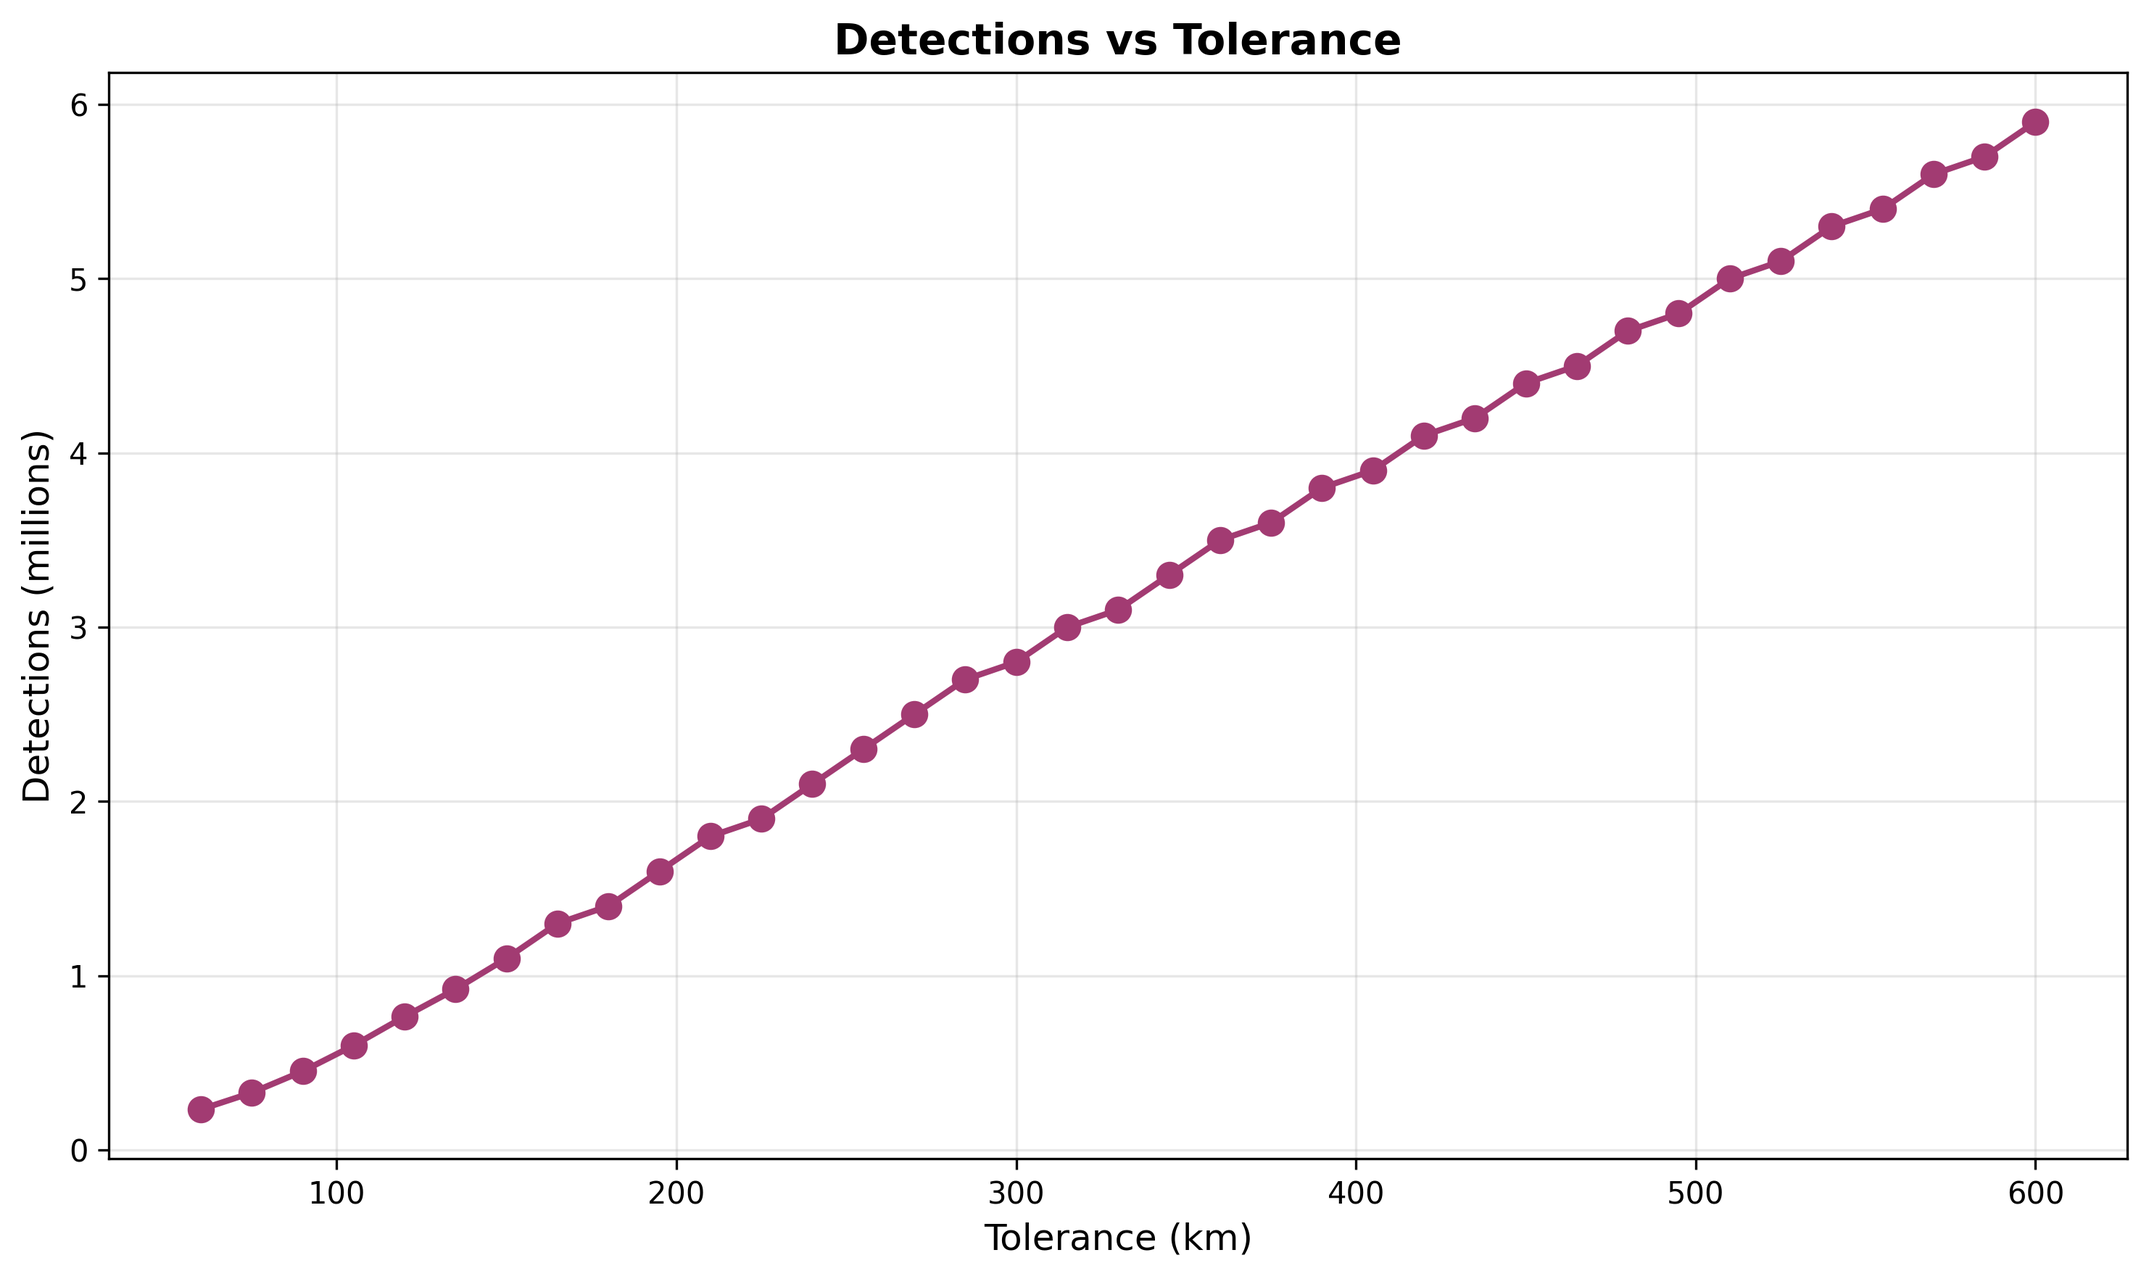
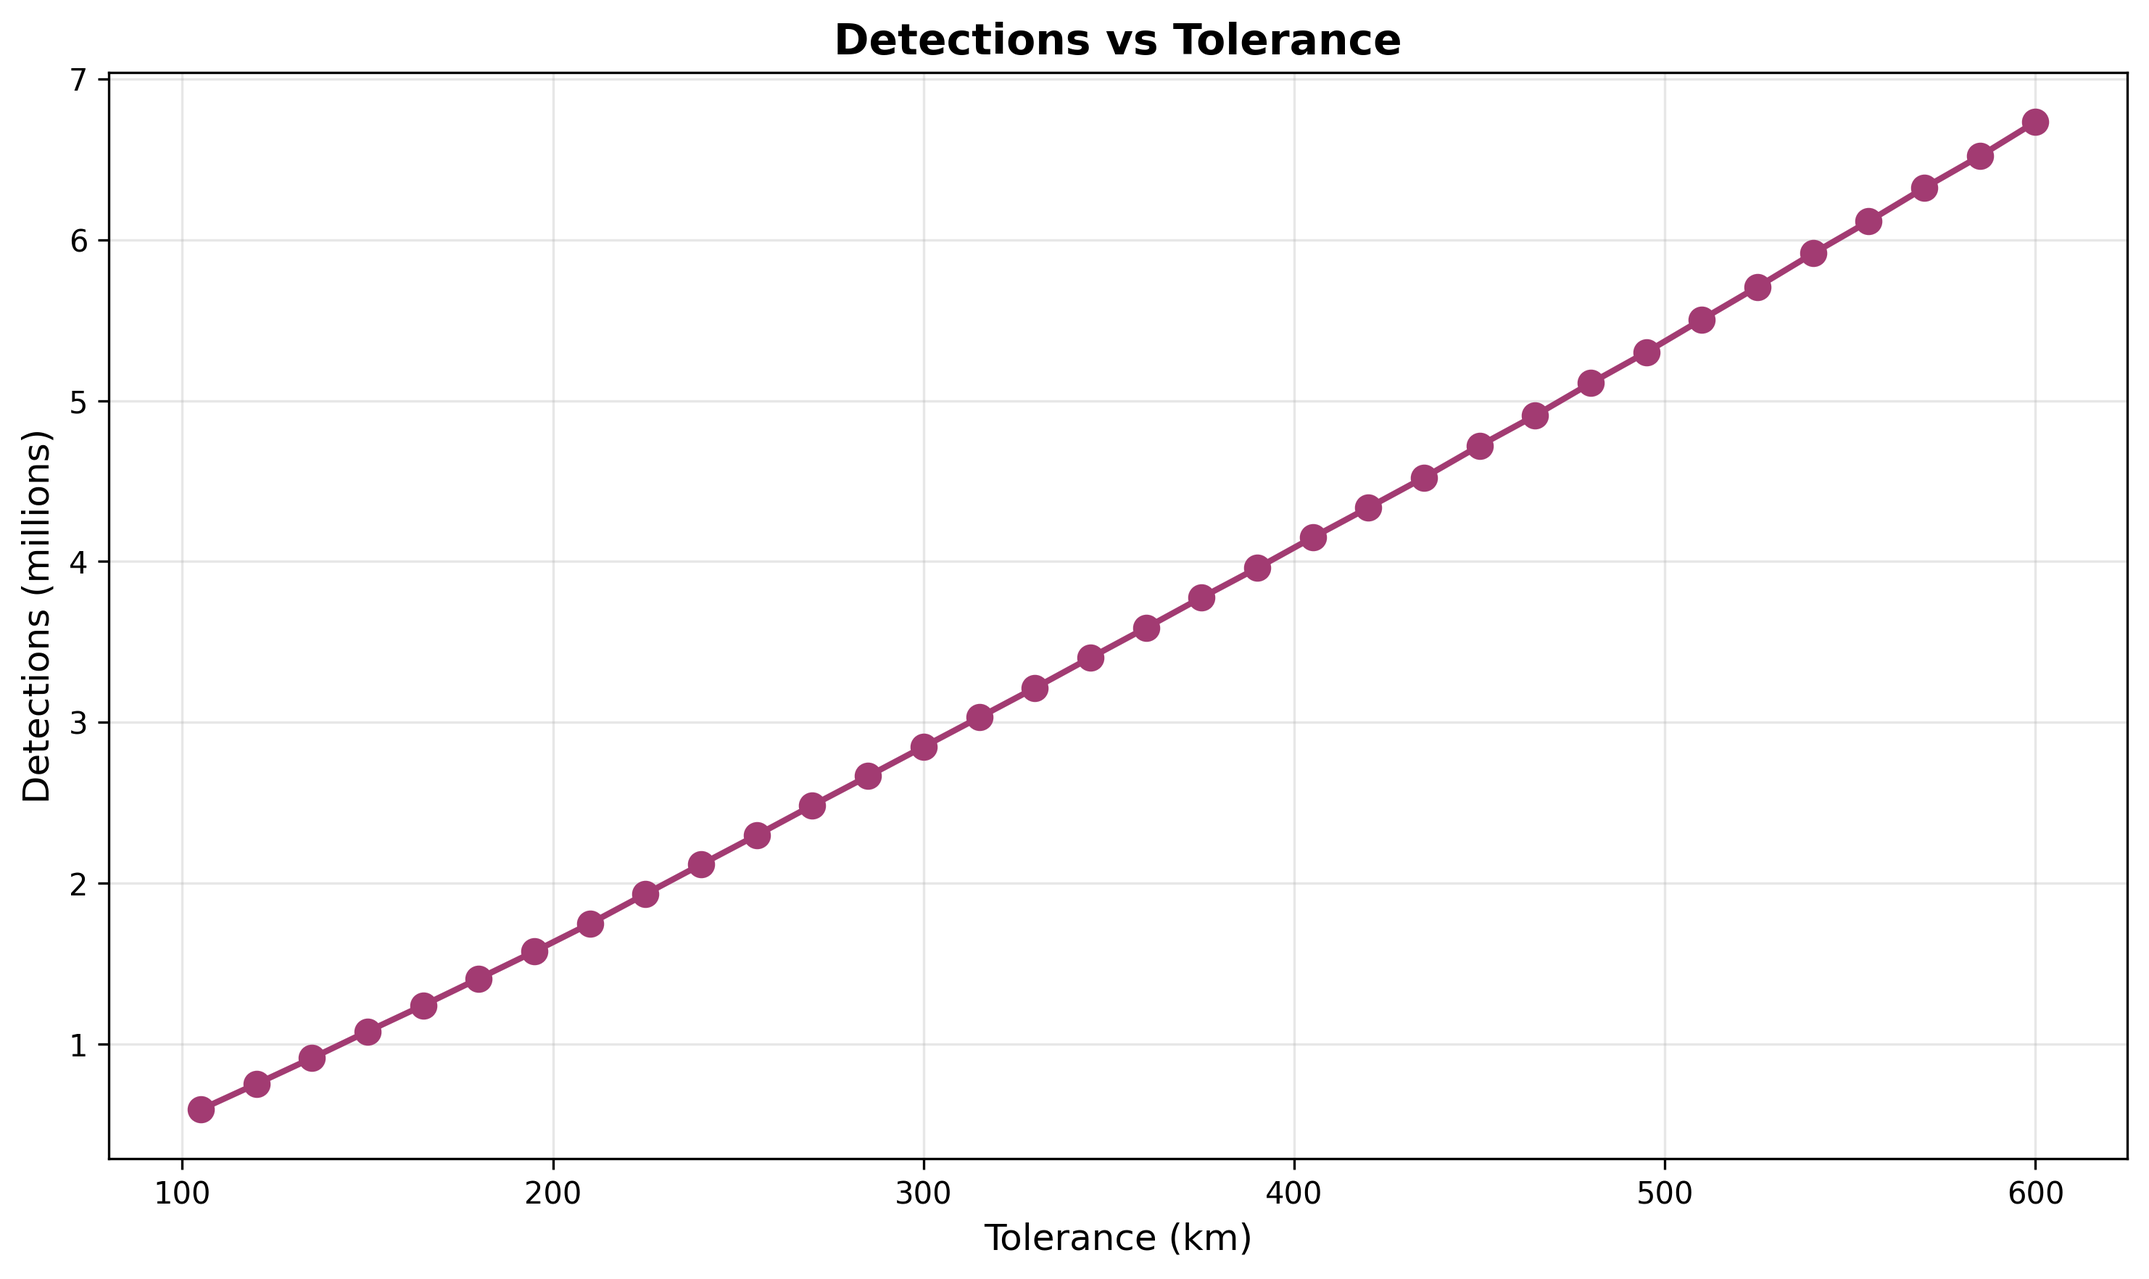
Replace binary search in refinement stage with golden section search; update docs

diff --git a/src/main/java/io/salad109/conjunctionapi/conjunction/internal/ConjunctionBenchmark.java b/src/main/java/io/salad109/conjunctionapi/conjunction/internal/ConjunctionBenchmark.java
@@ -48,15 +48,16 @@ public class ConjunctionBenchmark implements CommandLineRunner {
     }
 
     @Override
-    public void run(String @NonNull ... args) {
+    public void run(String @NonNull ... args) throws InterruptedException {
         log.info("Starting conjunction detection benchmark");
         log.info("");
 
         List<Satellite> satellites = satelliteService.getAll();
         log.info("Loaded {} satellites", satellites.size());
 
-        // Use fixed start time midnight UTC today
-        OffsetDateTime fixedStartTime = OffsetDateTime.now(ZoneOffset.UTC).truncatedTo(ChronoUnit.DAYS);
+        // Use fixed start time
+        OffsetDateTime fixedStartTime = OffsetDateTime.of(2025, 12, 31, 0, 0, 0, 0, ZoneOffset.UTC)
+                .truncatedTo(ChronoUnit.DAYS);
         log.info("Using fixed start time: {}", fixedStartTime);
 
         Map<Integer, TLEPropagator> propagators = propagationService.buildPropagators(satellites);
@@ -68,16 +69,18 @@ public class ConjunctionBenchmark implements CommandLineRunner {
 
         List<BenchmarkResult> results = new ArrayList<>();
 
-        // Run benchmarks with varying tolerance (60-600km, step 15) and step seconds (4-40s, step 1)
-        double toleranceKm = 60;
-        int stepSeconds = 4;
+        // Run benchmarks with various parameters
+        double toleranceKm = 105;
         while (toleranceKm <= 600) {
+            int stepSeconds = (int) (toleranceKm / 15.0);
+
+            System.gc();
+            Thread.sleep(100);
             results.add(runBenchmark(satellites, propagators, fixedStartTime, toleranceKm, stepSeconds, lookaheadHours, thresholdKm));
+
             toleranceKm += 15;
-            stepSeconds += 1;
         }
 
-        printResultsTable(results);
         writeCsvResults(results);
     }
 
@@ -92,14 +95,14 @@ public class ConjunctionBenchmark implements CommandLineRunner {
     ) {
         String name = String.format("tol=%.0f, step=%d", toleranceKm, stepSeconds);
         log.info("Running: {}", name);
-        long benchmarkStart = System.currentTimeMillis();
+        long benchmarkStart = System.nanoTime();
 
         List<SatellitePair> pairs = pairReductionService.findPotentialCollisionPairs(satellites, toleranceKm);
-        log.info(" -> {} candidate pairs", pairs.size());
+        log.info("{} candidate pairs", pairs.size());
 
-        long coarseStart = System.currentTimeMillis();
+        long coarseStart = System.nanoTime();
         List<ScanService.CoarseDetection> detections = scanService.coarseSweep(pairs, propagators, startTime, toleranceKm, stepSeconds, lookaheadHours);
-        long coarseTime = System.currentTimeMillis() - coarseStart;
+        long coarseTime = System.nanoTime() - coarseStart;
 
         Map<SatellitePair, List<List<ScanService.CoarseDetection>>> eventsByPair = scanService.groupIntoEvents(detections, stepSeconds);
         int totalEvents = eventsByPair.values().stream().mapToInt(List::size).sum();
@@ -108,11 +111,12 @@ public class ConjunctionBenchmark implements CommandLineRunner {
                 .flatMap(List::stream)
                 .toList();
 
-        long refineStart = System.currentTimeMillis();
+        long refineStart = System.nanoTime();
         List<Conjunction> refined = allEvents.parallelStream().map(event -> scanService.refineEvent(event, propagators, stepSeconds))
                 .filter(c -> c.getMissDistanceKm() <= thresholdKm)
                 .toList();
-        long refineTime = System.currentTimeMillis() - refineStart;
+        long refineTime = System.nanoTime() - refineStart;
+        log.info("Fine sweep completed in {}ms", refineTime / 1_000_000);
 
         List<Conjunction> deduplicated = refined.stream()
                 .collect(Collectors.toMap(
@@ -124,40 +128,13 @@ public class ConjunctionBenchmark implements CommandLineRunner {
                 .stream()
                 .toList();
 
-        long totalTime = System.currentTimeMillis() - benchmarkStart;
+        long totalTime = System.nanoTime() - benchmarkStart;
 
         log.info(" -> {} detections, {} events, {} conjunctions, {} dedup in {}ms",
-                detections.size(), totalEvents, refined.size(), deduplicated.size(), totalTime);
+                detections.size(), totalEvents, refined.size(), deduplicated.size(), totalTime / 1_000_000);
 
         return new BenchmarkResult(name, toleranceKm, stepSeconds, detections.size(), totalEvents,
                 refined.size(), deduplicated.size(), coarseTime, refineTime, totalTime);
-    }
-
-
-    private void printResultsTable(List<BenchmarkResult> results) {
-        log.info("");
-        log.info("=".repeat(114));
-        log.info("CONJUNCTION BENCHMARK RESULTS");
-        log.info("=".repeat(114));
-        log.info(String.format("%-18s | %8s | %6s | %10s | %8s | %6s | %6s | %8s | %8s | %8s",
-                "config", "tol(km)", "step(s)", "detections", "events", "conj", "dedup", "coarse", "refine", "total"));
-        log.info("-".repeat(114));
-
-        for (BenchmarkResult r : results) {
-            log.info(String.format("%-18s | %8.0f | %7d | %10s | %8s | %6d | %6d | %7.1fs | %7.1fs | %7.1fs",
-                    r.name, r.toleranceKm, r.stepSeconds,
-                    formatCount(r.detections), formatCount(r.events),
-                    r.conjunctions, r.deduplicated,
-                    r.coarseTimeMs / 1000.0, r.refineTimeMs / 1000.0, r.totalTimeMs / 1000.0));
-        }
-
-        log.info("=".repeat(114));
-    }
-
-    private String formatCount(long count) {
-        if (count >= 1_000_000) return String.format("%.1fM", count / 1_000_000.0);
-        if (count >= 1_000) return String.format("%.0fK", count / 1_000.0);
-        return String.valueOf(count);
     }
 
     private void writeCsvResults(List<BenchmarkResult> results) {
@@ -170,16 +147,16 @@ public class ConjunctionBenchmark implements CommandLineRunner {
                 writer.write("tolerance_km,step_s,detections,events,conj,dedup,coarse_s,refine_s,total_s\n");
 
                 for (BenchmarkResult r : results) {
-                    writer.write(String.format("%.0f,%d,%d,%d,%d,%d,%.1f,%.1f,%.1f%n",
+                    writer.write(String.format("%.0f,%d,%d,%d,%d,%d,%.6f,%.6f,%.6f%n",
                             r.toleranceKm,
                             r.stepSeconds,
                             r.detections,
                             r.events,
                             r.conjunctions,
                             r.deduplicated,
-                            r.coarseTimeMs / 1000.0,
-                            r.refineTimeMs / 1000.0,
-                            r.totalTimeMs / 1000.0));
+                            r.coarseTimeMs / 1_000_000_000.0,
+                            r.refineTimeMs / 1_000_000_000.0,
+                            r.totalTimeMs / 1_000_000_000.0));
                 }
             }
 

diff --git a/src/main/java/io/salad109/conjunctionapi/conjunction/internal/ScanService.java b/src/main/java/io/salad109/conjunctionapi/conjunction/internal/ScanService.java
@@ -17,6 +17,7 @@ import java.util.stream.Collectors;
 public class ScanService {
 
     private static final Logger log = LoggerFactory.getLogger(ScanService.class);
+    private static final double PHI = (1 + Math.sqrt(5)) / 2;  // golden ratio
 
     private final PropagationService propagationService;
 
@@ -176,39 +177,47 @@ public class ScanService {
     }
 
     /**
-     * Refine an event (cluster of coarse detections) using binary search to find more accurate TCA and minimum distance.
+     * Refine an event (cluster of coarse detections) using golden section search to find more accurate TCA and minimum distance.
      */
     Conjunction refineEvent(List<CoarseDetection> event, Map<Integer, TLEPropagator> propagators, int stepSeconds) {
-        // Start with the detection that had minimum distance
         CoarseDetection best = event.stream()
                 .min(Comparator.comparing(CoarseDetection::distance))
                 .orElseThrow();
-
         SatellitePair pair = best.pair();
-        OffsetDateTime tca = best.time();
-        double minDistance = best.distance();
 
-        // Use binary search to narrow down to 100ms accuracy
-        long searchWindowMs = stepSeconds * 1000L;
-        while (searchWindowMs >= 100) {
-            searchWindowMs /= 2;
+        // Search interval is stepSeconds/2 on each side of best detection
+        long halfWindowNanos = (stepSeconds * 1_000_000_000L) / 2;
+        OffsetDateTime baseTime = best.time().minusNanos(halfWindowNanos);
 
-            OffsetDateTime left = tca.minusNanos(searchWindowMs * 1_000_000);
-            OffsetDateTime right = tca.plusNanos(searchWindowMs * 1_000_000);
+        long a = 0;
+        long b = 2 * halfWindowNanos;
 
-            double distLeft = propagationService.propagateAndMeasureDistance(pair, propagators, left);
-            double distRight = propagationService.propagateAndMeasureDistance(pair, propagators, right);
+        // Interior points at golden ratio positions
+        long x1 = (long) (b - (b - a) / PHI);  // 0.382 position
+        long x2 = (long) (a + (b - a) / PHI);  // 0.618 position
 
-            if (distLeft < minDistance && distLeft <= distRight) {
-                tca = left;
-                minDistance = distLeft;
-            } else if (distRight < minDistance) {
-                tca = right;
-                minDistance = distRight;
-            } // else keep current tca and retry with smaller window
+        double f1 = propagationService.propagateAndMeasureDistance(pair, propagators, baseTime.plusNanos(x1));
+        double f2 = propagationService.propagateAndMeasureDistance(pair, propagators, baseTime.plusNanos(x2));
+
+        while (b - a > 100_000_000L) {
+            if (f1 < f2) {
+                b = x2;
+                x2 = x1;
+                f2 = f1;
+                x1 = (long) (b - (b - a) / PHI);
+                f1 = propagationService.propagateAndMeasureDistance(pair, propagators, baseTime.plusNanos(x1));
+            } else {
+                a = x1;
+                x1 = x2;
+                f1 = f2;
+                x2 = (long) (a + (b - a) / PHI);
+                f2 = propagationService.propagateAndMeasureDistance(pair, propagators, baseTime.plusNanos(x2));
+            }
         }
 
-        // Calculate relative velocity at refined TCA
+        OffsetDateTime tca = f1 < f2 ? baseTime.plusNanos(x1) : baseTime.plusNanos(x2);
+        double minDistance = Math.min(f1, f2);
+
         double relativeVelocity = propagationService.propagateAndMeasureVelocity(pair, propagators, tca);
 
         return new Conjunction(

diff --git a/docs/conjunction-tuning.md b/docs/conjunction-tuning.md
@@ -27,43 +27,40 @@ Benchmark results from 25% satellite catalog (7,397 satellites).
 
 | Config           | Detections | Events | Conj | Dedup | Coarse | Refine | **Total** |
 |------------------|------------|--------|------|-------|--------|--------|-----------|
-| tol=60, step=4   | 233K       | 50K    | 252  | 216   | 304.2s | 1.4s   | 305.8s    |
-| tol=75, step=5   | 329K       | 79K    | 252  | 216   | 249.2s | 2.2s   | 251.6s    |
-| tol=90, step=6   | 452K       | 115K   | 250  | 215   | 207.3s | 3.2s   | 210.7s    |
-| tol=105, step=7  | 600K       | 154K   | 251  | 215   | 177.1s | 5.0s   | 182.5s    |
-| tol=120, step=8  | 766K       | 194K   | 251  | 215   | 155.0s | 6.3s   | 161.8s    |
-| tol=135, step=9  | 923K       | 239K   | 250  | 214   | 136.3s | 7.5s   | 144.3s    |
-| tol=150, step=10 | 1.1M       | 283K   | 253  | 216   | 127.2s | 9.6s   | 137.5s    |
-| tol=165, step=11 | 1.3M       | 329K   | 250  | 214   | 110.9s | 10.3s  | 121.9s    |
-| tol=180, step=12 | 1.4M       | 374K   | 249  | 214   | 106.0s | 12.9s  | 119.8s    |
-| tol=195, step=13 | 1.6M       | 420K   | 253  | 217   | 96.6s  | 14.7s  | 112.3s    |
-| tol=210, step=14 | 1.8M       | 469K   | 250  | 214   | 91.1s  | 18.3s  | 110.5s    |
-| tol=225, step=15 | 1.9M       | 520K   | 250  | 214   | 85.0s  | 20.0s  | 106.2s    |
-| tol=240, step=16 | 2.1M       | 570K   | 252  | 215   | 79.8s  | 22.4s  | 103.5s    |
-| tol=255, step=17 | 2.3M       | 619K   | 248  | 212   | 74.7s  | 23.7s  | 99.9s     |
-| tol=270, step=18 | 2.5M       | 667K   | 248  | 212   | 68.1s  | 23.6s  | 93.1s     |
-| tol=285, step=19 | 2.7M       | 712K   | 250  | 214   | 64.5s  | 25.0s  | 91.1s     |
-| tol=300, step=20 | 2.8M       | 758K   | 252  | 216   | 63.7s  | 28.9s  | 94.3s     |
-| tol=315, step=21 | 3.0M       | 802K   | 250  | 214   | 59.1s  | 29.3s  | 90.1s     |
-| tol=330, step=22 | 3.1M       | 847K   | 248  | 212   | 56.5s  | 29.5s  | 87.9s     |
-| tol=345, step=23 | 3.3M       | 893K   | 250  | 214   | 53.4s  | 30.9s  | 86.3s     |
-| tol=360, step=24 | 3.5M       | 938K   | 250  | 215   | 51.4s  | 31.8s  | 85.2s     |
-| tol=375, step=25 | 3.6M       | 982K   | 249  | 213   | 49.4s  | 33.5s  | 85.0s     |
-| tol=390, step=26 | 3.8M       | 1.0M   | 253  | 217   | 47.7s  | 38.7s  | 88.6s     |
-| tol=405, step=27 | 3.9M       | 1.1M   | 252  | 216   | 45.8s  | 40.7s  | 88.7s     |
-| tol=420, step=28 | 4.1M       | 1.1M   | 250  | 214   | 44.9s  | 44.7s  | 92.1s     |
-| tol=435, step=29 | 4.2M       | 1.2M   | 251  | 215   | 43.4s  | 45.0s  | 90.9s     |
-| tol=450, step=30 | 4.4M       | 1.2M   | 249  | 213   | 42.1s  | 47.5s  | 92.1s     |
-| tol=465, step=31 | 4.5M       | 1.2M   | 251  | 215   | 40.7s  | 48.7s  | 91.9s     |
-| tol=480, step=32 | 4.7M       | 1.3M   | 251  | 215   | 39.9s  | 51.3s  | 93.8s     |
-| tol=495, step=33 | 4.8M       | 1.3M   | 250  | 214   | 38.9s  | 54.2s  | 96.0s     |
-| tol=510, step=34 | 5.0M       | 1.4M   | 249  | 213   | 37.9s  | 54.6s  | 95.3s     |
-| tol=525, step=35 | 5.1M       | 1.4M   | 249  | 213   | 36.8s  | 59.8s  | 99.6s     |
-| tol=540, step=36 | 5.3M       | 1.5M   | 249  | 213   | 36.0s  | 58.3s  | 97.5s     |
-| tol=555, step=37 | 5.4M       | 1.5M   | 251  | 215   | 34.8s  | 61.6s  | 99.5s     |
-| tol=570, step=38 | 5.6M       | 1.5M   | 248  | 212   | 34.0s  | 63.6s  | 101.0s    |
-| tol=585, step=39 | 5.7M       | 1.6M   | 251  | 215   | 32.8s  | 63.0s  | 99.2s     |
-| tol=600, step=40 | 5.9M       | 1.6M   | 250  | 214   | 32.3s  | 63.8s  | 99.4s     |
+| tol=105, step=7  | 595K       | 152K   | 226  | 206   | 139.3s | 3.6s   | 143.6s    |
+| tol=120, step=8  | 754K       | 193K   | 227  | 207   | 137.8s | 5.1s   | 143.7s    |
+| tol=135, step=9  | 914K       | 237K   | 225  | 205   | 130.0s | 6.4s   | 137.5s    |
+| tol=150, step=10 | 1.1M       | 282K   | 227  | 207   | 122.2s | 7.4s   | 130.8s    |
+| tol=165, step=11 | 1.2M       | 327K   | 225  | 205   | 117.1s | 8.6s   | 126.8s    |
+| tol=180, step=12 | 1.4M       | 373K   | 225  | 205   | 107.1s | 10.4s  | 118.9s    |
+| tol=195, step=13 | 1.6M       | 420K   | 226  | 206   | 101.2s | 11.8s  | 114.5s    |
+| tol=210, step=14 | 1.7M       | 469K   | 225  | 205   | 100.0s | 13.4s  | 115.2s    |
+| tol=225, step=15 | 1.9M       | 520K   | 226  | 206   | 96.1s  | 15.0s  | 113.0s    |
+| tol=240, step=16 | 2.1M       | 571K   | 229  | 208   | 91.1s  | 16.5s  | 109.5s    |
+| tol=255, step=17 | 2.3M       | 623K   | 227  | 207   | 86.3s  | 18.3s  | 106.9s    |
+| tol=270, step=18 | 2.5M       | 675K   | 227  | 207   | 83.3s  | 19.7s  | 105.2s    |
+| tol=285, step=19 | 2.7M       | 728K   | 227  | 207   | 79.9s  | 21.1s  | 103.5s    |
+| tol=300, step=20 | 2.8M       | 782K   | 225  | 204   | 75.8s  | 23.5s  | 101.7s    |
+| tol=315, step=21 | 3.0M       | 835K   | 227  | 207   | 73.4s  | 24.9s  | 101.0s    |
+| tol=330, step=22 | 3.2M       | 891K   | 226  | 206   | 70.9s  | 27.7s  | 101.2s    |
+| tol=345, step=23 | 3.4M       | 947K   | 227  | 207   | 61.8s  | 32.2s  | 97.2s     |
+| tol=360, step=24 | 3.6M       | 1.0M   | 230  | 209   | 64.4s  | 31.3s  | 98.6s     |
+| tol=375, step=25 | 3.8M       | 1.1M   | 226  | 206   | 65.6s  | 28.4s  | 96.8s     |
+| tol=390, step=26 | 4.0M       | 1.1M   | 225  | 205   | 61.8s  | 35.6s  | 100.4s    |
+| tol=405, step=27 | 4.1M       | 1.2M   | 226  | 206   | 59.4s  | 36.5s  | 99.1s     |
+| tol=420, step=28 | 4.3M       | 1.2M   | 225  | 205   | 57.3s  | 37.3s  | 98.0s     |
+| tol=435, step=29 | 4.5M       | 1.3M   | 228  | 207   | 57.1s  | 39.1s  | 99.8s     |
+| tol=450, step=30 | 4.7M       | 1.4M   | 225  | 205   | 55.7s  | 42.3s  | 101.9s    |
+| tol=465, step=31 | 4.9M       | 1.4M   | 226  | 206   | 54.2s  | 42.6s  | 100.7s    |
+| tol=480, step=32 | 5.1M       | 1.5M   | 226  | 206   | 53.6s  | 45.7s  | 103.4s    |
+| tol=495, step=33 | 5.3M       | 1.5M   | 225  | 205   | 52.2s  | 50.5s  | 106.9s    |
+| tol=510, step=34 | 5.5M       | 1.6M   | 227  | 207   | 50.2s  | 52.0s  | 106.5s    |
+| tol=525, step=35 | 5.7M       | 1.7M   | 224  | 204   | 50.1s  | 55.4s  | 109.8s    |
+| tol=540, step=36 | 5.9M       | 1.7M   | 225  | 205   | 48.6s  | 64.2s  | 117.5s    |
+| tol=555, step=37 | 6.1M       | 1.8M   | 228  | 208   | 47.7s  | 58.3s  | 110.7s    |
+| tol=570, step=38 | 6.3M       | 1.9M   | 228  | 208   | 46.5s  | 70.6s  | 122.0s    |
+| tol=585, step=39 | 6.5M       | 1.9M   | 227  | 206   | 46.5s  | 62.9s  | 114.8s    |
+| tol=600, step=40 | 6.7M       | 2.0M   | 225  | 205   | 46.6s  | 64.1s  | 116.4s    |
 
 ### Optimal Parameters: tolerance=375km, step=25s
 
